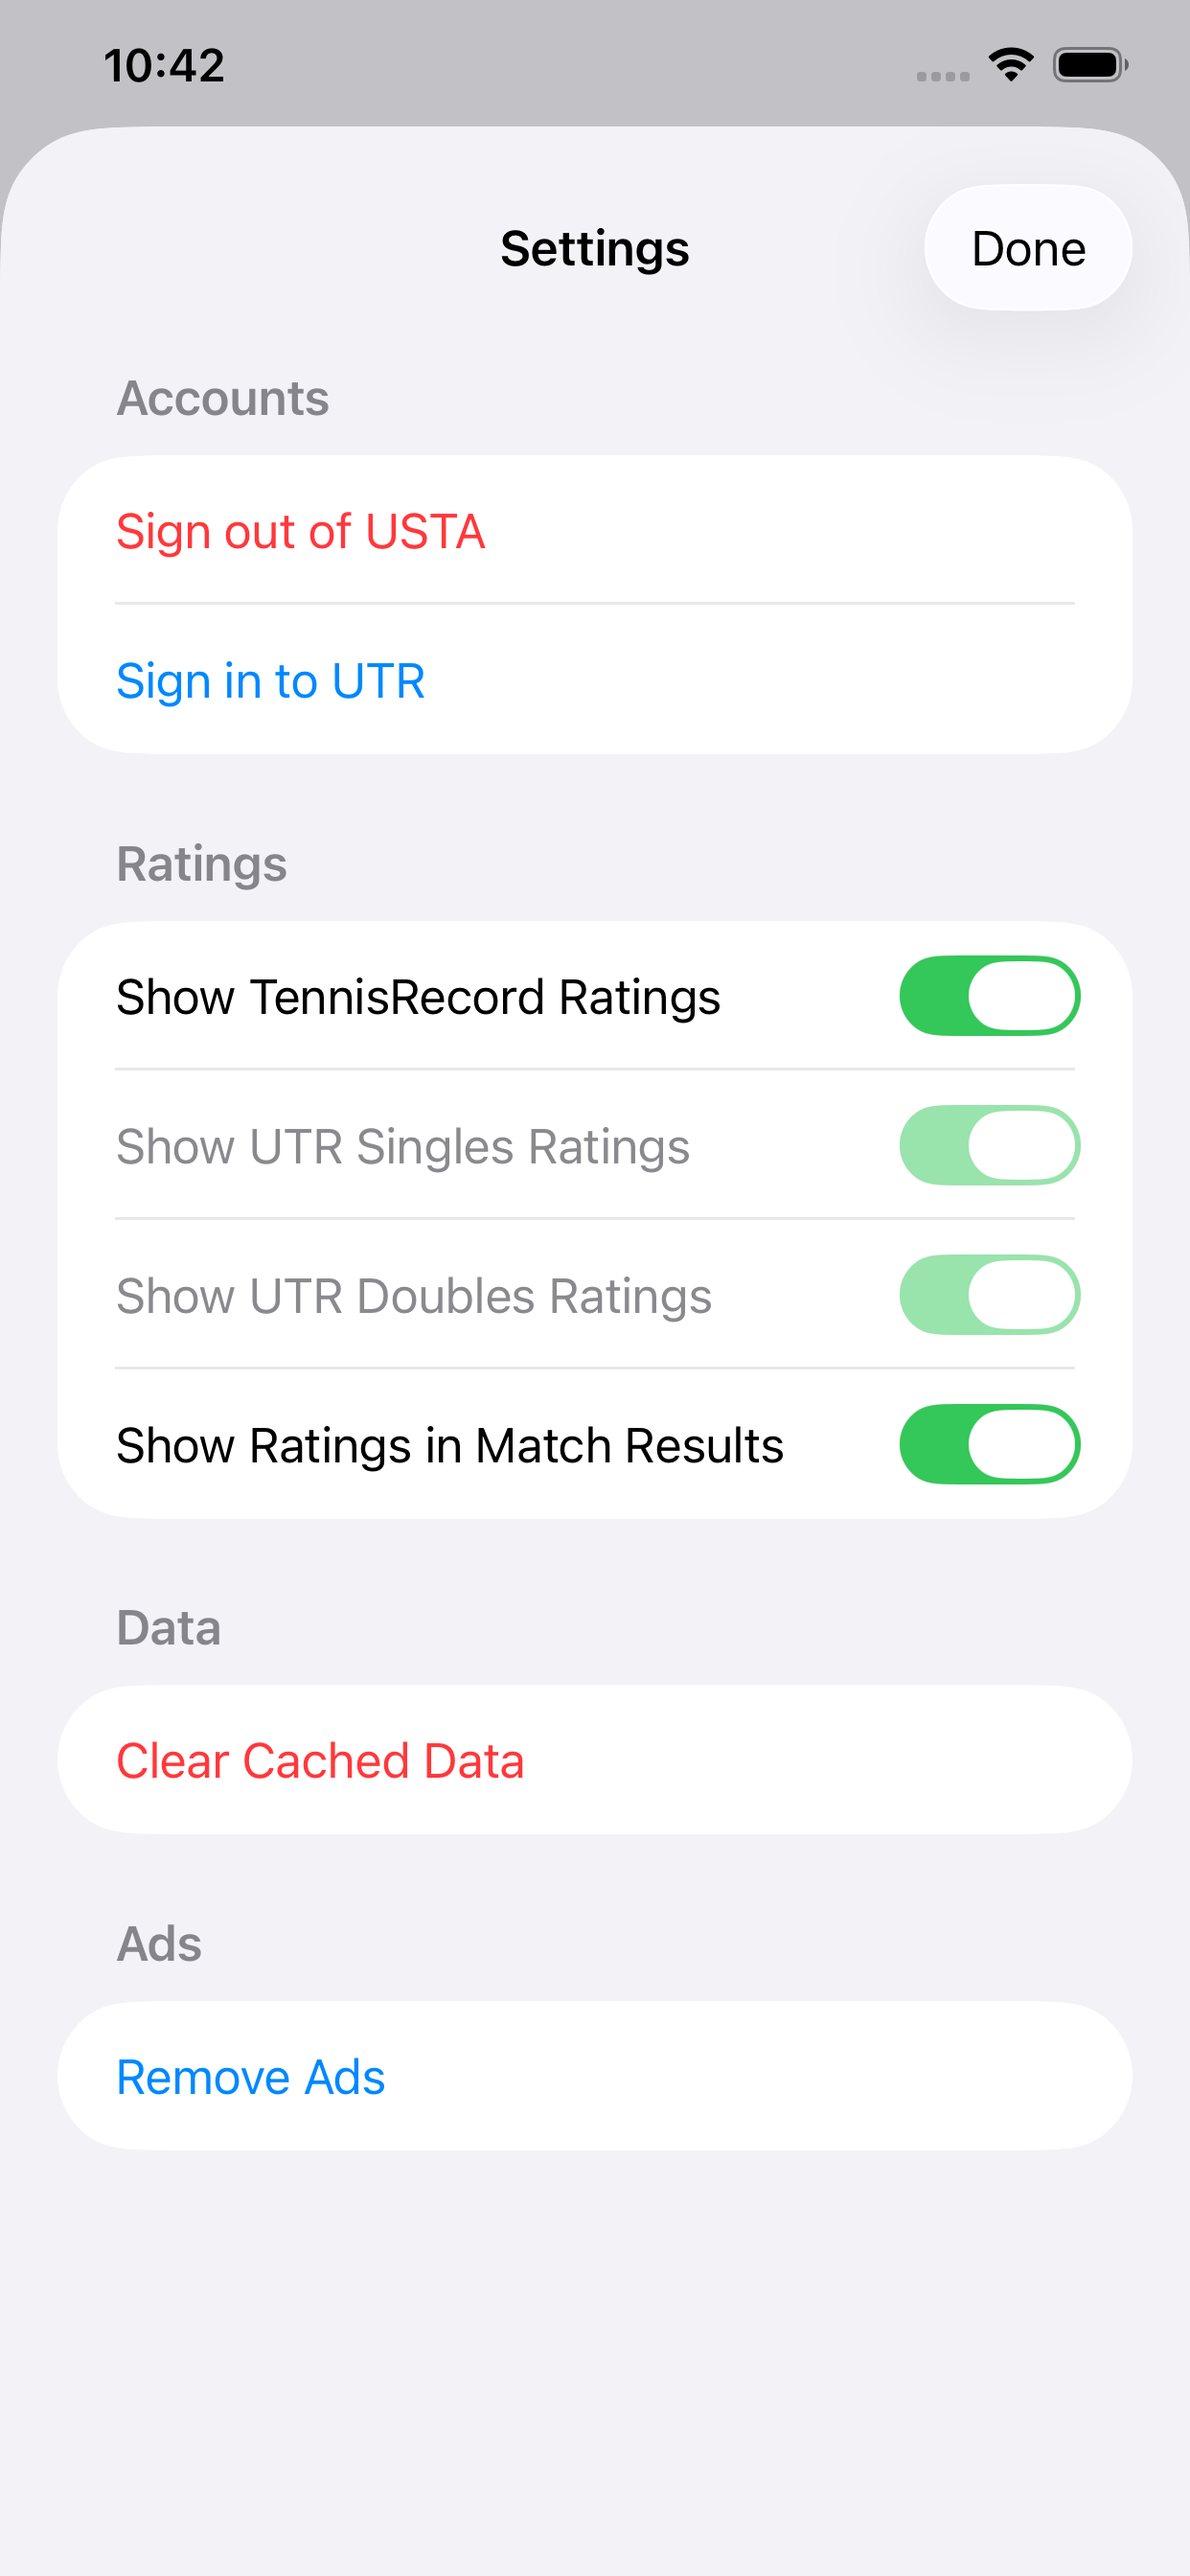
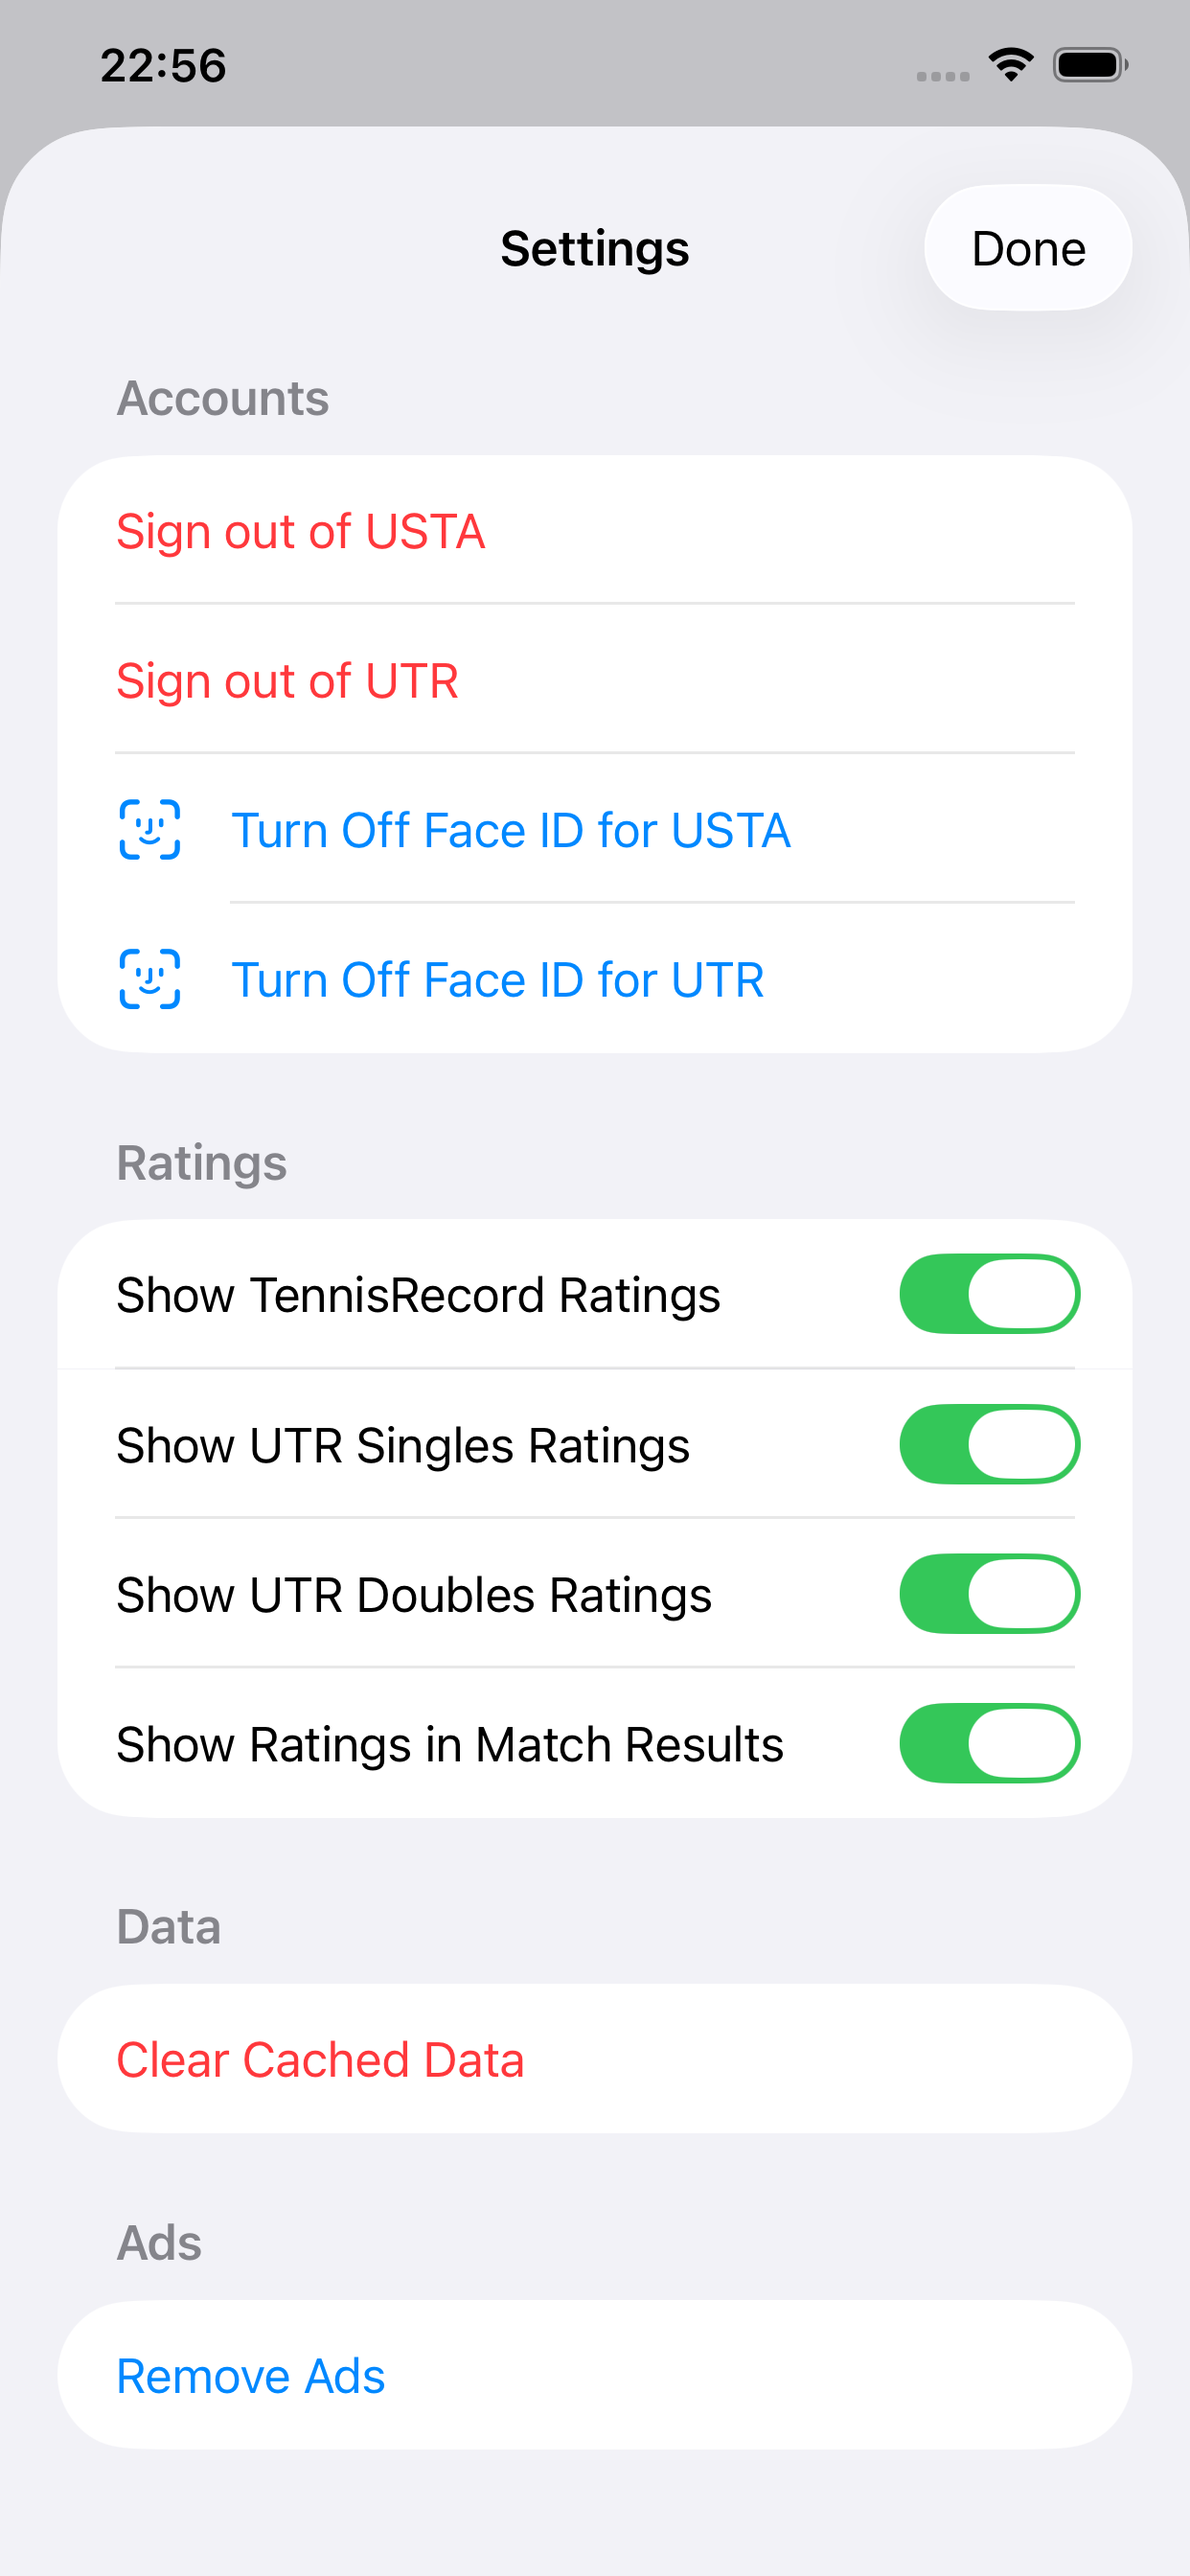
Refresh Net Results marketing showcase

diff --git a/net-results/index.html b/net-results/index.html
@@ -96,58 +96,6 @@
       display: block;
     }
 
-    /* ── FEATURES ── */
-    .features {
-      max-width: 1000px;
-      margin: 0 auto;
-      padding: 80px 24px;
-      position: relative;
-      z-index: 1;
-    }
-
-    .section-title {
-      color: var(--fg);
-    }
-
-    .feature-grid {
-      display: flex;
-      flex-direction: column;
-      gap: 28px;
-    }
-
-    .feature-row {
-      display: grid;
-      gap: 28px;
-      justify-content: center;
-    }
-
-    .feature-row.three {
-      grid-template-columns: repeat(3, minmax(0, 1fr));
-      max-width: 700px;
-      width: 100%;
-      margin: 0 auto;
-    }
-    .feature-row.four { grid-template-columns: repeat(4, minmax(0, 1fr)); }
-
-    .feature-card {
-      background: var(--panel);
-      border: 1px solid var(--border);
-      border-radius: 20px;
-      padding: 32px;
-      backdrop-filter: blur(8px);
-    }
-
-    .feature-icon { font-size: 2em; margin-bottom: 16px; }
-
-    .feature-card h3 {
-      font-size: 1.1em;
-      font-weight: 700;
-      margin-bottom: 10px;
-      color: var(--fg);
-    }
-
-    .feature-card p { font-size: 0.95em; color: var(--mid); }
-
     /* ── SHOWCASE ROWS ── */
     .showcase {
       padding: 60px 24px;
@@ -191,6 +139,7 @@
       border-radius: 28px;
       box-shadow: 0 20px 60px rgba(0,0,0,0.5);
     }
+
 
     /* ── PRICING ── */
     .pricing {
@@ -260,7 +209,6 @@
       .showcase-img { width: 180px; margin: 0 auto; }
       .showcase-inner, .showcase-inner.reverse { flex-direction: column; align-items: center; }
       .showcase-text { text-align: center; }
-      .feature-row.three, .feature-row.four { grid-template-columns: 1fr; }
     }
   </style>
 </head>
@@ -298,55 +246,8 @@
     <a href="#" class="app-store-btn">Download on the App Store</a>
   </section>
 
-  <!-- FEATURE CARDS -->
-  <section class="features">
-    <p class="section-label">Features</p>
-    <h2 class="section-title">The season, without the scavenger hunt</h2>
-    <div class="feature-grid">
-      <div class="feature-row three">
-        <div class="feature-card">
-        <div class="feature-icon">🧑</div>
-        <h3>Player profiles</h3>
-        <p>Open any player’s profile to see their teams, ratings, upcoming matches, and recent results. Export timed upcoming matches as a calendar file.</p>
-        </div>
-        <div class="feature-card">
-        <div class="feature-icon">📅</div>
-        <h3>Roster &amp; ratings</h3>
-        <p>Browse the full roster, sort it by name or rating, and show TennisRecord, UTR Singles, or UTR Doubles where you want them.</p>
-        </div>
-        <div class="feature-card">
-        <div class="feature-icon">📋</div>
-        <h3>Lineup planner</h3>
-        <p>Try availability changes locally, then compare Equal Play and Strongest Lines proposals that respect league and rating constraints.</p>
-        </div>
-      </div>
-      <div class="feature-row four">
-        <div class="feature-card">
-        <div class="feature-icon">🏆</div>
-        <h3>Projected standings</h3>
-        <p>See the current table beside an end-of-season projection, with confidence and the expected movement for every team.</p>
-        </div>
-        <div class="feature-card">
-        <div class="feature-icon">🎾</div>
-        <h3>Match details</h3>
-        <p>Upcoming matches keep time, home or away status, location, captain notes, and your availability in one place.</p>
-        </div>
-        <div class="feature-card">
-        <div class="feature-icon">🔍</div>
-        <h3>Search the league</h3>
-        <p>Find players and teams by name, then open their public profiles and team pages.</p>
-        </div>
-        <div class="feature-card">
-        <div class="feature-icon">📤</div>
-        <h3>Lineup sharing</h3>
-        <p>Share a published lineup with another captain through Messages or a nearby device, right from the match details.</p>
-        </div>
-      </div>
-    </div>
-  </section>
-
   <!-- SHOWCASE: PROFILE -->
-  <section class="showcase dark-bg">
+  <section id="profile" class="showcase dark-bg">
     <div class="showcase-inner">
       <div class="showcase-text">
         <h2>All your teams, one view</h2>
@@ -365,7 +266,7 @@
   </section>
 
   <!-- SHOWCASE: LINEUP PLANNER -->
-  <section class="showcase">
+  <section id="planner" class="showcase">
     <div class="showcase-inner reverse">
       <div class="showcase-text">
         <h2>Plan a lineup</h2>
@@ -383,7 +284,7 @@
   </section>
 
   <!-- SHOWCASE: STANDINGS -->
-  <section class="showcase dark-bg">
+  <section id="standings" class="showcase dark-bg">
     <div class="showcase-inner">
       <div class="showcase-text">
         <h2>See where the flight is headed</h2>
@@ -401,7 +302,7 @@
   </section>
 
   <!-- SHOWCASE: LINEUP SHARING -->
-  <section class="showcase">
+  <section id="sharing" class="showcase">
     <div class="showcase-inner reverse">
       <div class="showcase-text">
         <h2>Share the lineup in a tap</h2>
@@ -419,7 +320,7 @@
   </section>
 
   <!-- SHOWCASE: ROSTER -->
-  <section class="showcase dark-bg">
+  <section id="roster" class="showcase dark-bg">
     <div class="showcase-inner">
       <div class="showcase-text">
         <h2>Know the roster before match day</h2>
@@ -437,7 +338,7 @@
   </section>
 
   <!-- SHOWCASE: AVAILABILITY -->
-  <section class="showcase">
+  <section id="availability" class="showcase">
     <div class="showcase-inner reverse">
       <div class="showcase-text">
         <h2>Never miss a match day detail</h2>
@@ -473,7 +374,7 @@
   </section>
 
   <!-- SHOWCASE: SEARCH -->
-  <section class="showcase dark-bg">
+  <section id="search" class="showcase dark-bg">
     <div class="showcase-inner reverse">
       <div class="showcase-text">
         <h2>Find a player or team in seconds</h2>
@@ -508,20 +409,20 @@
     </div>
   </section>
 
-  <!-- SHOWCASE: SETTINGS -->
-  <section class="showcase">
+  <!-- SHOWCASE: ACCOUNT CONTROLS -->
+  <section id="account-controls" class="showcase">
     <div class="showcase-inner reverse">
       <div class="showcase-text">
-        <h2>Your ratings, your way</h2>
-        <p>Choose which ratings appear throughout the app — TennisRecord, UTR Singles, UTR Doubles, and scorecard ratings can each be controlled separately.</p>
+        <h2>Keep account access under your control</h2>
+        <p>Manage your USTA NorCal and UTR sessions, ratings, cached data, and protected Face ID sign-in from one clear Settings screen.</p>
         <ul>
-          <li>Sign in to USTA and UTR separately</li>
-          <li>Toggle TennisRecord, UTR-S, and UTR-D</li>
-          <li>Control ratings in match scorecards</li>
+          <li>Turn Face ID off for either account at any time</li>
+          <li>Sign out of USTA and UTR separately</li>
+          <li>Choose which ratings appear throughout the app</li>
         </ul>
       </div>
       <div class="showcase-img">
-        <img src="screenshots/10-settings.png" alt="Settings view">
+        <img src="screenshots/10-settings.png" alt="Settings with Face ID account controls">
       </div>
     </div>
   </section>
